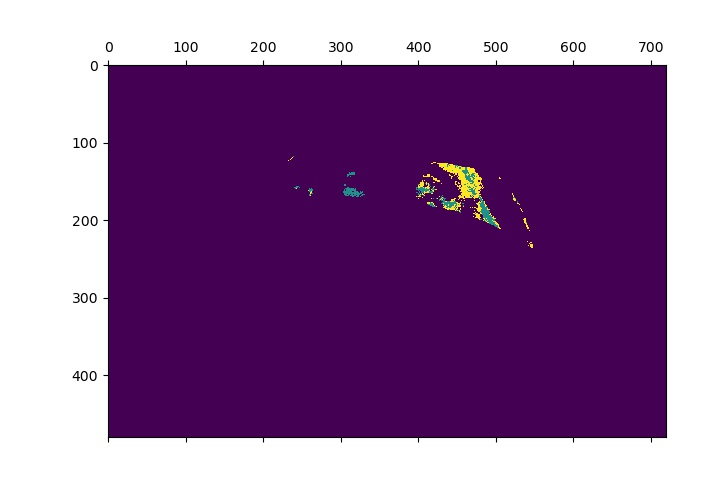
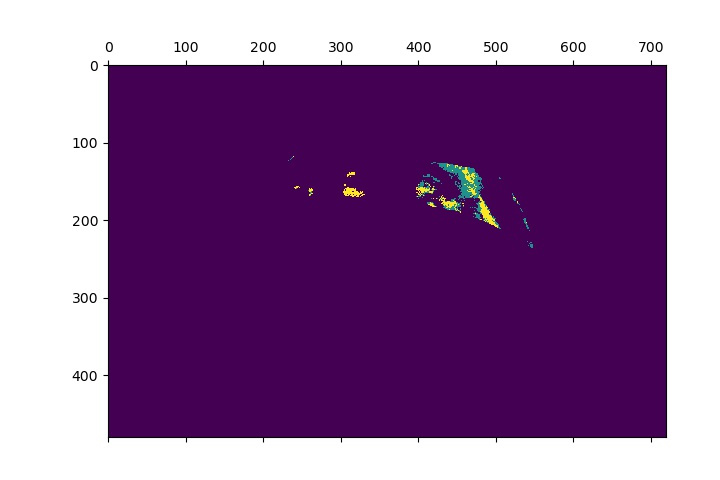
added initial centroids for kmeans

Changed region(s): [[0.5806, 0.3125, 0.7333, 0.4688], [0.4278, 0.3438, 0.5194, 0.4062], [0.7333, 0.5, 0.7639, 0.5312]]

diff --git a/main.py b/main.py
@@ -27,7 +27,16 @@ def main() -> None:
     tadjs = [0.08611111, 0.05472222, 0.03527778]
     declinations = [-0.3671597, -0.3455368, -0.1360118]
 
-    clf = KMeans(n_clusters=3)
+    startpoints = np.array([(0, 0, 0), (145, 142, 149), (29, 30, 60)])
+    clf = KMeans(n_clusters=3, init=startpoints)
+
+    """
+    since we gave initial cneters, n_init is set to 1 instead of 10,
+
+    n_init: int, default=10
+    Number of time the k-means algorithm will be run with different centroid seeds. 
+    The final results will be the best output of n_init consecutive runs in terms of inertia.
+    """
 
     for i, image_filename in enumerate(image_filenames):
         print(f"{image_filename}...")  # display file name to see progress
